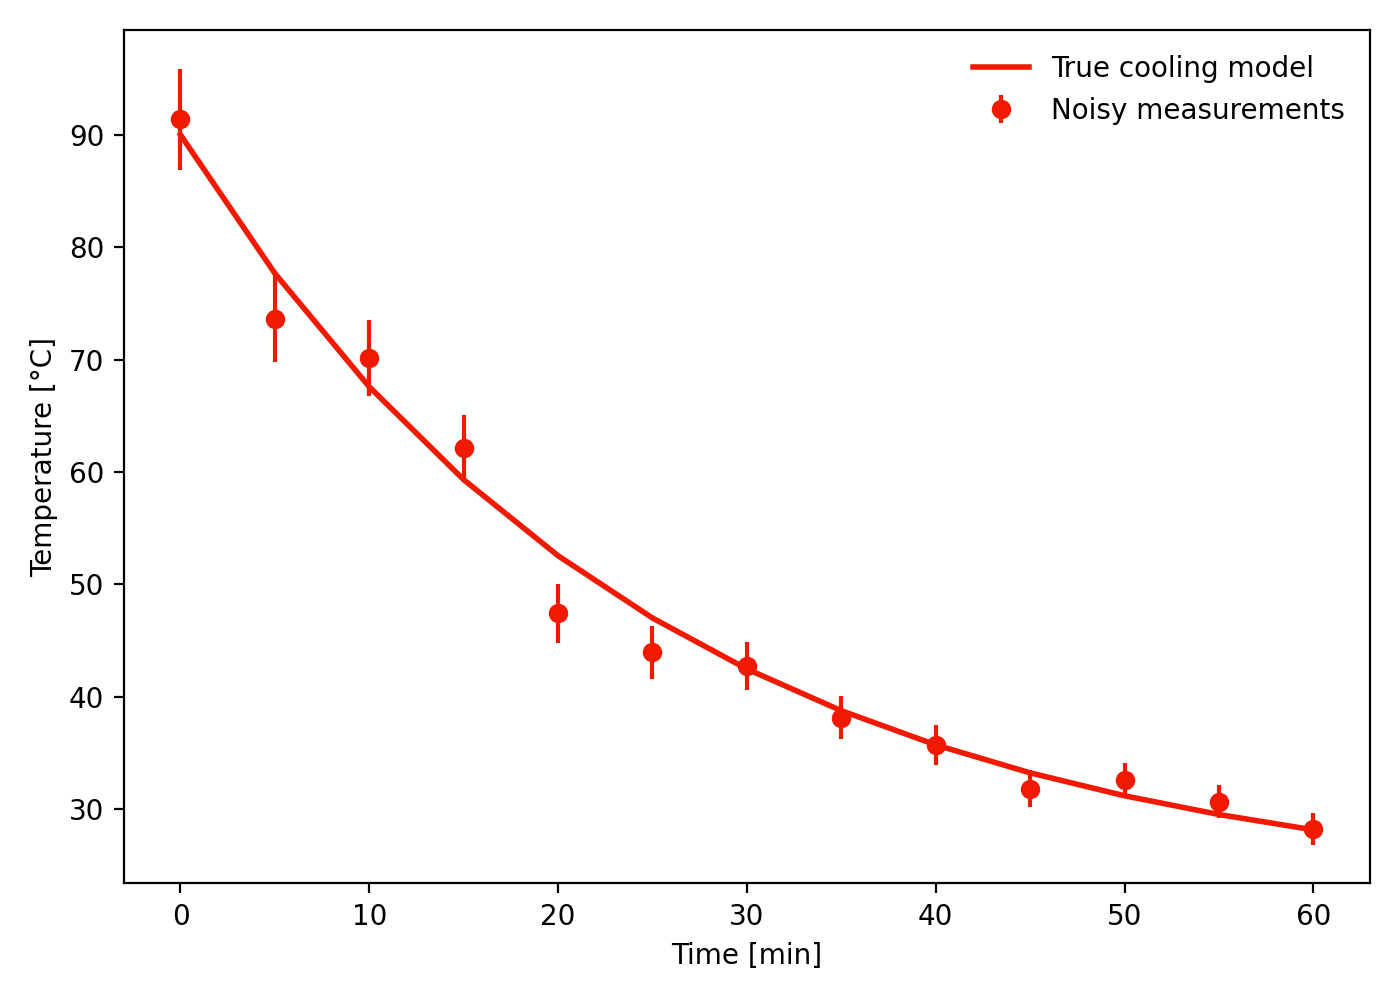
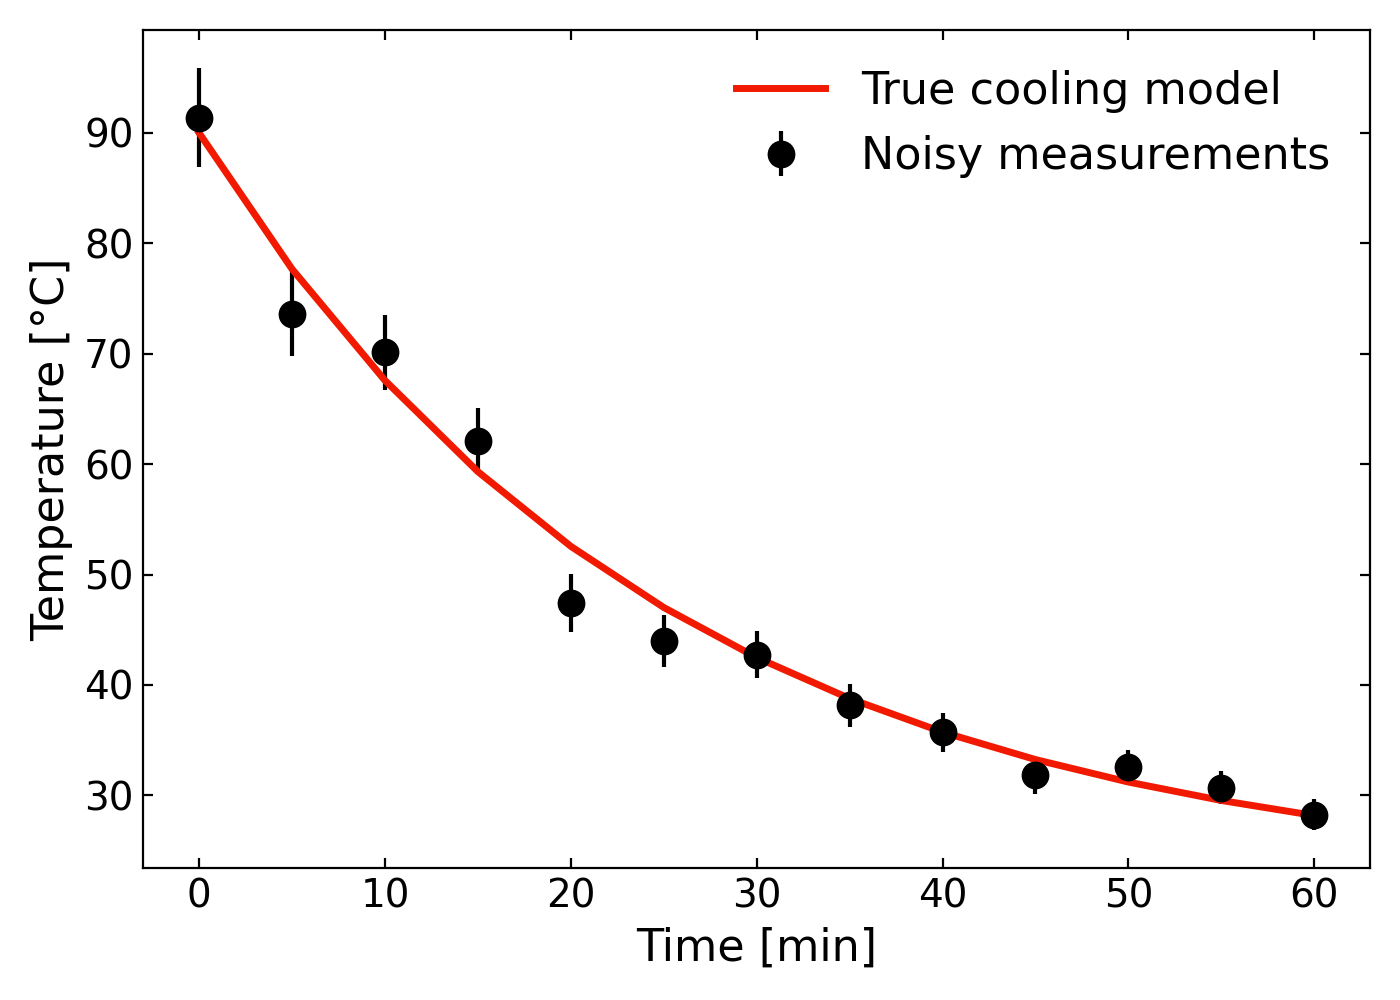
updated plots and repo commands

diff --git a/src/percolator_fish/scripts/plot_coffee_data.py b/src/percolator_fish/scripts/plot_coffee_data.py
@@ -28,20 +28,31 @@ def plot_coffee_data(
         observed_temperature,
         yerr=sigma_temperature,
         fmt="o",
-        color=DK_RED,
+        color="k",
         label="Noisy measurements",
+        markersize=9,
     )
     ax.plot(
         time_min,
         true_temperature,
         color=DK_RED,
-        linewidth=2.0,
+        linewidth=2.5,
         label="True cooling model",
     )
 
-    ax.set_xlabel("Time [min]")
-    ax.set_ylabel("Temperature [°C]")
-    ax.legend(frameon=False)
+    ax.set_xlabel("Time [min]", fontsize=16)
+    ax.set_ylabel("Temperature [°C]", fontsize=16)
+
+    ax.tick_params(
+        axis="both",
+        which="both",
+        direction="in",
+        top=True,
+        right=True,
+        labelsize=14,
+    )
+
+    ax.legend(frameon=False, fontsize=16)
 
     fig.tight_layout()
     fig.savefig(output_path, dpi=200)

diff --git a/src/percolator_fish/scripts/plot_full_forecast.py b/src/percolator_fish/scripts/plot_full_forecast.py
@@ -47,25 +47,31 @@ def main() -> None:
         **DERIVKIT_KWARGS,
     )
 
+    lw = 2
+    fs = 20
+
     plotter = getdist_plots.get_subplot_plotter(width_inch=8.0)
-    plotter.settings.linewidth_contour = 1.3
-    plotter.settings.linewidth = 1.3
+    plotter.settings.linewidth_contour = lw
+    plotter.settings.linewidth = lw
+    plotter.settings.axes_labelsize = fs
+    plotter.settings.axes_fontsize = fs
 
     plotter.triangle_plot(
         [forecast.gaussian],
         params=forecast.names,
         filled=[False],
         contour_colors=[DK_RED],
-        contour_lws=[1.3],
+        contour_lws=[lw],
         contour_ls=["-"],
     )
 
-    plotter.export(str(output_dir / "coffee_triangle_forecast.png"))
+    figname = "coffee_full_forecast.png"
+    plotter.export(str(output_dir / figname))
 
     print("Parameter names:", forecast.names)
     print("Fisher matrix:")
     print(forecast.fisher)
-    print("Saved plots_output/coffee_triangle_forecast.png")
+    print(f"Saved plots_output/{figname}")
 
 
 if __name__ == "__main__":

diff --git a/README.md b/README.md
@@ -38,7 +38,7 @@ Before fitting any particular data set, we may want to ask forecasting questions
 
 * If the true initial coffee temperature is near a fiducial value, how accurately could we estimate it?
 * If the true cooling time is near a fiducial value, how accurately could we estimate it?
-* Which parameters would be most strongly correlated?
+* If we had a mroe advanced model, which parameters would be most strongly correlated?
 * How would the forecasted uncertainties change if we collected more measurements?
 * How would the forecasted uncertainties change if the measurements were noisier or more precise?
 
@@ -269,7 +269,7 @@ percolator-data
 Create the two-parameter Fisher forecast
 
 ```bash
-percolator-two-param
+percolator-simple
 ```
 
 Create the larger Fisher triangle plot